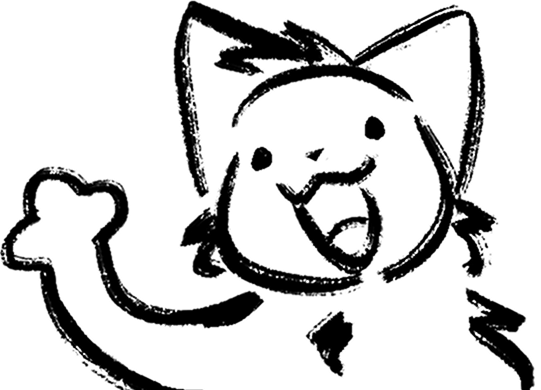
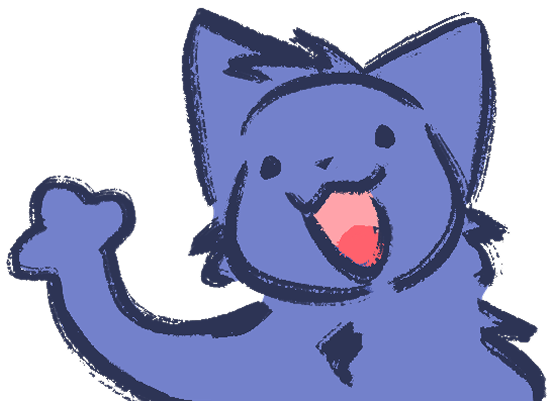
update goober image

diff --git a/src/routes/about/+page.svelte b/src/routes/about/+page.svelte
@@ -27,8 +27,7 @@
 		}
 	});
 
-	// Goober perches on the line under the "About" heading. The PNG is one
-	// colour, so it's used as a mask and filled with the theme's highlight.
+	// Goober perches on the line under the "About" heading.
 	const goober = '<span class="goober" aria-hidden="true"></span>';
 	const html = markdown.parse(about, { async: false }).replace('</h1>', `${goober}</h1>`);
 </script>
@@ -54,10 +53,8 @@
 		right: 1.5rem;
 		bottom: 0;
 		height: 4rem;
-		aspect-ratio: 541 / 390;
-		background-color: var(--color-highlight);
-		mask: url('/goober.png') center bottom / contain no-repeat;
-		-webkit-mask: url('/goober.png') center bottom / contain no-repeat;
+		aspect-ratio: 557 / 401;
+		background: url('/goober.png') center bottom / contain no-repeat;
 	}
 </style>
 
